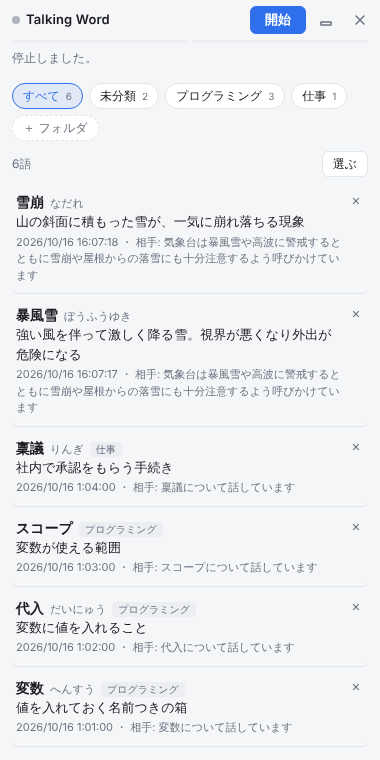
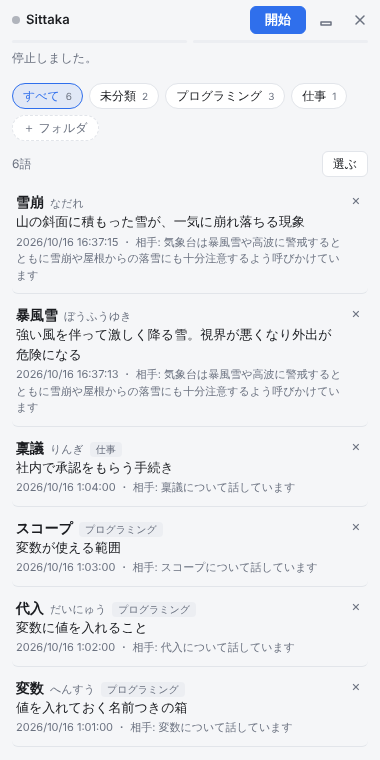
Rename the app to Sittaka
Window title, installer, shortcut, intro page, docs and release
settings now say Sittaka, and links point at kono0/Sittaka. Settings
and the word book stay in the old data folder so nothing is lost.

Claude-Session: https://claude.ai/code/session_015T57EaQ5cZejQHk3NeyCmM

diff --git a/docs/index.html b/docs/index.html
@@ -3,7 +3,7 @@
   <head>
     <meta charset="UTF-8" />
     <meta name="viewport" content="width=device-width, initial-scale=1" />
-    <title>Talking Word — 通話中の知らない言葉を、こっそり調べる</title>
+    <title>Sittaka — 通話中の知らない言葉を、こっそり調べる</title>
     <meta
       name="description"
       content="オンライン通話の会話を PC の中で文字にして、出てきた専門用語やカタカナ語を画面の端に並べる Windows アプリ。押すだけで意味が分かります。"
@@ -204,16 +204,16 @@
     <div class="wrap">
       <header class="hero">
         <div>
-          <div class="brand"><img src="img/icon.svg" alt="" />Talking Word</div>
+          <div class="brand"><img src="img/icon.svg" alt="" />Sittaka</div>
           <h1>通話中の「それ何？」を、<br />相手にバレずに調べる。</h1>
           <p class="lead">
             オンライン通話の会話をその場で文字にして、出てきた専門用語やカタカナ語を画面の端に並べます。気になる言葉を押せば、会話に合った意味が一文で出ます。
           </p>
           <div class="cta">
-            <a class="button" href="https://github.com/kono0/Talking.word_Cheating_tool/releases/latest"
+            <a class="button" href="https://github.com/kono0/Sittaka/releases/latest"
               >Windows 版をダウンロード</a
             >
-            <a class="button secondary" href="https://github.com/kono0/Talking.word_Cheating_tool">ソースコード</a>
+            <a class="button secondary" href="https://github.com/kono0/Sittaka">ソースコード</a>
           </div>
           <p class="small">無料 ・ Windows 10 / 11（64ビット）・ Mac 版は準備中</p>
         </div>
@@ -261,7 +261,7 @@
           <div>
             <h2>はじめかた</h2>
             <ol class="steps">
-              <li>上のボタンから <b>TalkingWord-Setup.exe</b> をダウンロードして開きます。</li>
+              <li>上のボタンから <b>Sittaka-Setup.exe</b> をダウンロードして開きます。</li>
               <li>
                 「Windows によって PC が保護されました」と出たら、「詳細情報」→「実行」を押します（個人で作っているアプリのため、署名をしていません）。
               </li>
@@ -289,15 +289,15 @@
           </p>
           <p>
             くわしくは
-            <a href="https://github.com/kono0/Talking.word_Cheating_tool/blob/main/PRIVACY.md">プライバシーポリシー</a>
+            <a href="https://github.com/kono0/Sittaka/blob/main/PRIVACY.md">プライバシーポリシー</a>
             をご覧ください。
           </p>
         </div>
       </section>
 
       <footer>
-        Talking Word ・
-        <a href="https://github.com/kono0/Talking.word_Cheating_tool/issues">不具合・要望はこちら</a>
+        Sittaka ・
+        <a href="https://github.com/kono0/Sittaka/issues">不具合・要望はこちら</a>
         ・ MIT ライセンス ・ 使っているソフトウェアのライセンス表記は、アプリの「設定」から開けます
       </footer>
     </div>

diff --git a/src/renderer/index.html b/src/renderer/index.html
@@ -6,13 +6,13 @@
       http-equiv="Content-Security-Policy"
       content="default-src 'self'; script-src 'self' 'wasm-unsafe-eval' blob: https://cdn.jsdelivr.net; worker-src 'self' blob:; connect-src 'self' blob: data: https://huggingface.co https://*.huggingface.co https://*.hf.co https://cdn.jsdelivr.net; style-src 'self' 'unsafe-inline'"
     />
-    <title>Talking Word</title>
+    <title>Sittaka</title>
     <link rel="stylesheet" href="./src/style.css" />
   </head>
   <body class="full">
     <header class="titlebar">
       <span id="rec" class="rec" title="停止中"></span>
-      <span class="brand">Talking Word</span>
+      <span class="brand">Sittaka</span>
       <span class="spacer"></span>
       <button id="toggle" class="primary">開始</button>
       <button id="mode" class="icon" title="小さくする（Ctrl+Alt+M）" aria-label="小さくする">

diff --git a/src/renderer/src/inspect/view.ts b/src/renderer/src/inspect/view.ts
@@ -272,7 +272,7 @@ export class Inspector {
     const blob = new Blob([JSON.stringify([...this.traces].reverse(), null, 2)], { type: 'application/json' })
     const a = document.createElement('a')
     a.href = URL.createObjectURL(blob)
-    a.download = `talking-word-trace-${new Date().toISOString().replace(/[:.]/g, '-')}.json`
+    a.download = `sittaka-trace-${new Date().toISOString().replace(/[:.]/g, '-')}.json`
     a.click()
     setTimeout(() => URL.revokeObjectURL(a.href), 1000)
   }

diff --git a/src/main/index.ts b/src/main/index.ts
@@ -40,7 +40,7 @@ function createPanel(): BrowserWindow {
     // 見た目を Windows のライト・ダークに合わせるため、枠は自前で描く（上の帯をつかんで動かせる）
     frame: false,
     backgroundColor: nativeTheme.shouldUseDarkColors ? '#15171b' : '#f5f6f8',
-    title: 'Talking Word',
+    title: 'Sittaka',
     icon: join(__dirname, '../../resources/icon.png'),
     webPreferences: {
       preload: join(__dirname, '../preload/index.js'),

diff --git a/src/renderer/src/onboarding.ts b/src/renderer/src/onboarding.ts
@@ -72,7 +72,7 @@ export function showOnboarding({ micSelect, isRunning, onDone }: Options): void 
 
   function welcome(): Step {
     return {
-      title: 'Talking Word へようこそ',
+      title: 'Sittaka へようこそ',
       body: [
         p('通話の声を聞き取って、会話に出てきた専門用語やカタカナ語を、この画面の端にそっと並べます。'),
         list([

diff --git a/PRIVACY.md b/PRIVACY.md
@@ -1,6 +1,6 @@
 # プライバシーポリシー
 
-Talking Word（以下「このアプリ」）が扱う情報と、その行き先をまとめます。
+Sittaka（以下「このアプリ」）が扱う情報と、その行き先をまとめます。
 
 ## 音声
 
@@ -33,4 +33,4 @@ API キーは、Windows の暗号化の仕組み（DPAPI）で暗号化して、
 
 ## 問い合わせ
 
-https://github.com/kono0/Talking.word_Cheating_tool/issues
+https://github.com/kono0/Sittaka/issues
